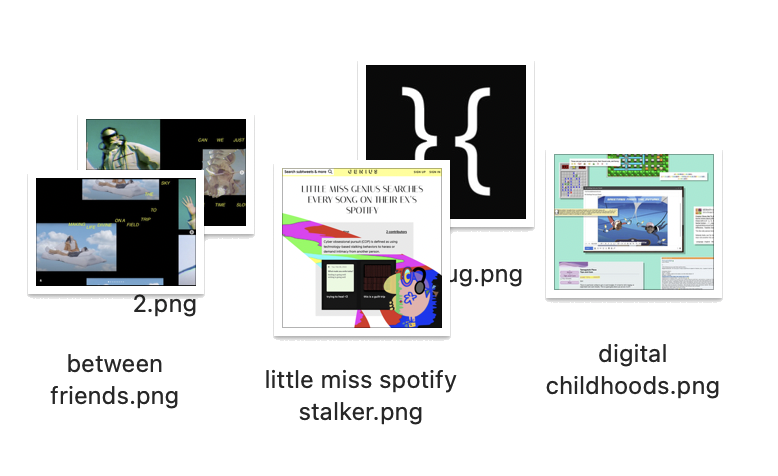
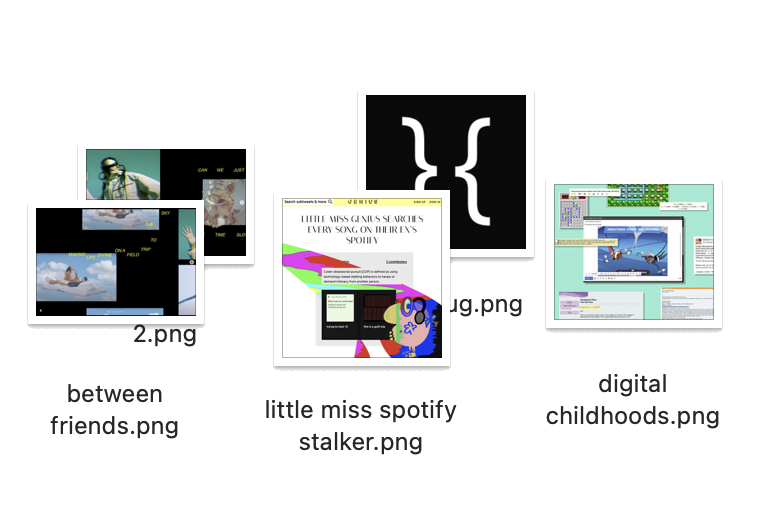
friends

diff --git a/src/pages/Home.js b/src/pages/Home.js
@@ -5,10 +5,12 @@ import DesktopIcon from "../components/desktop/DesktopIcon";
 import Folder from "../components/desktop/Folder";
 import Popup from "../components/desktop/Popup";
 import FileData from "../data/FileData";
+import { socials } from "../data/PortfolioData";
 import WindowData from "../data/WindowData";
 import { useCursorString, useUIActions } from "../context/UIContext";
 import { Screen, useDesktopScreen } from "../routes";
 import useIsMobile from "../hooks/useIsMobile";
+import { fonts } from "../styles/tokens.stylex";
 
 // Browsers that understand image-set() with type() all decode WebP. site.css
 // uses the same check, so the CSS background and this URL always match.
@@ -28,6 +30,48 @@ const styles = stylex.create({
   headerImage: {
     opacity: 0,
   },
+  pager: {
+    position: "fixed",
+    right: 10,
+    width: 128,
+    zIndex: 100,
+    display: "flex",
+    alignItems: "center",
+    justifyContent: "center",
+    gap: 14,
+    transform: "scale(0.5)",
+    fontFamily: fonts.serif,
+    fontStyle: "italic",
+    fontSize: 30,
+    color: "#111111",
+    userSelect: "none",
+    whiteSpace: "nowrap",
+  },
+  pagerLabel: {
+    padding: 0,
+    borderWidth: 0,
+    backgroundColor: "transparent",
+    color: "inherit",
+    font: "inherit",
+    cursor: "pointer",
+  },
+  pagerArrow: {
+    padding: 0,
+    borderWidth: 0,
+    backgroundColor: "transparent",
+    color: "inherit",
+    font: "inherit",
+    fontStyle: "normal",
+    lineHeight: 1,
+    cursor: {
+      default: "pointer",
+      ":disabled": "default",
+    },
+    opacity: {
+      default: 1,
+      ":disabled": 0.25,
+    },
+  },
 });
 
 const FOLDERS = [
@@ -44,6 +88,15 @@ const FOLDERS = [
   },
   { key: "About Me", display: "About Me", hoverText: "( Autofiction as therapy )" },
 ];
+
+const SOCIAL_FOLDERS = socials.map((social) => ({
+  key: social.url,
+  display: social.label,
+  hoverText: `( ${social.url.replace(/^https?:\/\//, "")} )`,
+  url: social.url,
+}));
+const FOLDER_PAGES = [SOCIAL_FOLDERS, FOLDERS];
+const folderTop = (index) => 150 + 90 * (index + 1);
 
 // Stops the page from scrolling or bouncing on vertical swipes (mobile).
 const usePreventVerticalSwipe = () => {
@@ -89,6 +142,8 @@ const Home = ({ isFoldersOff, setIsFoldersOff }) => {
 
   const [isGridLayout, setIsGridLayout] = useState(false);
   const [openStates, setOpenStates] = useState([true, false, true, true]);
+  const [folderPage, setFolderPage] = useState(0);
+  const pageFolders = FOLDER_PAGES[folderPage];
 
   const hoverHandlers = (text) => ({
     onMouseEnter: () => setCursorString(text),
@@ -236,20 +291,58 @@ const Home = ({ isFoldersOff, setIsFoldersOff }) => {
           {renderItems()}
 
           {!isFoldersOff &&
-            FOLDERS.map((folder, index) => (
+            pageFolders.map((folder, index) => (
               <Folder
                 key={folder.key}
-                isOpen={openStates[index]}
-                onOpen={(isOpen) => toggleFolder(index, isOpen)}
+                isOpen={folder.url ? false : openStates[index]}
+                onOpen={(isOpen) =>
+                  folder.url
+                    ? window.open(folder.url, "_blank", "noopener,noreferrer")
+                    : toggleFolder(index, isOpen)
+                }
                 hoverString={folder.hoverText}
                 onHoverChange={(isHovering) =>
                   setCursorString(isHovering ? folder.hoverText : "")
                 }
                 caption={folder.display}
-                y={150 + 90 * (index + 1)}
+                y={folderTop(index)}
                 scale={0.5}
               />
             ))}
+
+          {!isFoldersOff && (
+            <div
+              {...stylex.props(styles.pager)}
+              style={{ top: folderTop(pageFolders.length) + 45 }}
+            >
+              <button
+                type="button"
+                aria-label="Previous folders"
+                disabled={folderPage === 0}
+                onClick={() => setFolderPage((page) => page - 1)}
+                {...stylex.props(styles.pagerArrow)}
+              >
+                ‹
+              </button>
+              <button
+                type="button"
+                aria-label="Switch folder page"
+                onClick={() => setFolderPage((page) => (page + 1) % FOLDER_PAGES.length)}
+                {...stylex.props(styles.pagerLabel)}
+              >
+                ( {folderPage + 1}/{FOLDER_PAGES.length} )
+              </button>
+              <button
+                type="button"
+                aria-label="Next folders"
+                disabled={folderPage === FOLDER_PAGES.length - 1}
+                onClick={() => setFolderPage((page) => page + 1)}
+                {...stylex.props(styles.pagerArrow)}
+              >
+                ›
+              </button>
+            </div>
+          )}
 
           {cursorString ? (
             <div id="header-hover" className="bottom-left">

diff --git a/src/pages/Portfolio.js b/src/pages/Portfolio.js
@@ -7,6 +7,7 @@ import ProjectDetail from "../components/portfolio/ProjectDetail";
 import { projects, formatProjectDate, getProjectImageUrl } from "../data/PortfolioData";
 import { Screen, useDesktopScreen } from "../routes";
 import useIsMobile from "../hooks/useIsMobile";
+import useMediaQuery from "../hooks/useMediaQuery";
 import whenDecoded from "../utils/whenDecoded";
 import { colors, fonts, radii, fontSizes } from "../styles/tokens.stylex";
 
@@ -42,6 +43,10 @@ const URL_BAR_ROUTES = {
   convos: TABS[4],
   conversation: TABS[4],
   conversations: TABS[4],
+};
+
+const URL_BAR_REDIRECTS = {
+  friends: "https://moments.codes/friends",
 };
 
 const slugify = (title) =>
@@ -93,8 +98,7 @@ const loadImage = (url) =>
 
 const styles = stylex.create({
   hvrGrow: {
-    display: "inline-block",
-    verticalAlign: "middle",
+    display: "block",
     transform: {
       default: "translateZ(0)",
       ":hover": "scale(1.035)",
@@ -138,6 +142,8 @@ const styles = stylex.create({
   }),
   navPadding: {
     padding: 18,
+    flexShrink: 0,
+    whiteSpace: "nowrap",
   },
   backArrow: {
     cursor: "pointer",
@@ -255,7 +261,11 @@ const styles = stylex.create({
     right: 12,
   },
   projectImage: {
+    display: "block",
+    width: "100%",
     height: 200,
+    objectFit: "contain",
+    objectPosition: "left center",
     transform: "scale(0.9)",
   },
   madeWith: {
@@ -315,6 +325,7 @@ const styles = stylex.create({
 
 const Portfolio = () => {
   const isMobile = useIsMobile();
+  const isTwoColumn = useMediaQuery("(max-width: 1200px)");
   const { pathname } = useLocation();
   const history = useHistory();
   const [, setDesktopScreen] = useDesktopScreen();
@@ -323,6 +334,10 @@ const Portfolio = () => {
   const [favouriteOverrides, setFavouriteOverrides] = useState({});
   const isFavouritesOnly = (tab) => favouriteOverrides[tab.id] ?? tab.category === "all";
   const [backHover, setBackHover] = useState(0);
+  const hoverCircle = (id) => ({
+    onPointerEnter: (event) => event.pointerType === "mouse" && setBackHover(id),
+    onPointerLeave: () => setBackHover(0),
+  });
   const [useMobileDetail, setUseMobileDetail] = useState(true);
   const [readyImageLoadKey, setReadyImageLoadKey] = useState("");
   const [readyProjectImages, setReadyProjectImages] = useState(() => new Set());
@@ -391,6 +406,11 @@ const Portfolio = () => {
   const handleUrlBarSubmit = (event) => {
     if (event.key !== "Enter") return;
     const lastSegment = event.target.value.trim().split("/").pop().trim().toLowerCase();
+    const redirect = URL_BAR_REDIRECTS[lastSegment];
+    if (redirect) {
+      window.open(redirect, "_blank", "noopener,noreferrer");
+      return;
+    }
     const tab = URL_BAR_ROUTES[lastSegment];
     if (tab) {
       history.push(tab.path);
@@ -423,8 +443,7 @@ const Portfolio = () => {
               onClick={() => setDesktopScreen(Screen.HOME)}
               xmlns="http://www.w3.org/2000/svg"
               {...stylex.props(styles.backArrow)}
-              onMouseEnter={() => setBackHover(1)}
-              onMouseLeave={() => setBackHover(0)}
+              {...hoverCircle(1)}
             >
               <path
                 d="M21.883 12l-7.527 6.235.644.765 9-7.521-9-7.479-.645.764 7.528 6.236h-12.884v1h21.883z"
@@ -439,8 +458,7 @@ const Portfolio = () => {
               height="30"
               xmlns="http://www.w3.org/2000/svg"
               {...stylex.props(styles.forwardArrow)}
-              onMouseEnter={() => setBackHover(2)}
-              onMouseLeave={() => setBackHover(0)}
+              {...hoverCircle(2)}
             >
               <path
                 d="M21.883 12l-7.527 6.235.644.765 9-7.521-9-7.479-.645.764 7.529 6.236h-12.884v1h21.883z"
@@ -455,8 +473,7 @@ const Portfolio = () => {
                 viewBox="0 0 24 24"
                 xmlns="http://www.w3.org/2000/svg"
                 {...stylex.props(styles.refreshIcon)}
-                onMouseEnter={() => setBackHover(3)}
-                onMouseLeave={() => setBackHover(0)}
+                {...hoverCircle(3)}
               >
                 <path d="M7 9h-7v-7h1v5.2c1.853-4.237 6.083-7.2 11-7.2 6.623 0 12 5.377 12 12s-5.377 12-12 12c-6.286 0-11.45-4.844-11.959-11h1.004c.506 5.603 5.221 10 10.955 10 6.071 0 11-4.929 11-11s-4.929-11-11-11c-4.66 0-8.647 2.904-10.249 7h5.249v1z" />
               </svg>
@@ -500,7 +517,7 @@ const Portfolio = () => {
             id="portfolio-wrapper"
             className="bgrid-thirds s-bgrid-thirds cf"
             style={{
-              padding: isMobile ? "70px 10px 100px" : "50px 80px",
+              padding: isMobile ? "70px 10px 100px" : isTwoColumn ? "40px 30px" : "50px 80px",
               minHeight: isMobile ? "calc(100vh / 1.1 - 180px)" : "calc(100vh / 1.1 - 200px)",
             }}
           >

diff --git a/src/data/PortfolioData.js b/src/data/PortfolioData.js
@@ -1,10 +1,10 @@
 import React from "react";
 
 export const socials = [
-  { name: "❀ vsco.co", url: "https://vsco.co/mellyeliu" },
-  { name: "𖡼 reading.supply", url: "https://reading.supply/@mellyeliu" },
-  { name: "⚘ github.com", url: "https://github.com/mellyeliu" },
-  { name: "𖠋 linktr.ee", url: "https://linktr.ee/mellye.liu" },
+  { name: "❀ vsco.co", label: "Photos", url: "https://vsco.co/mellyeliu" },
+  { name: "𖡼 reading.supply", label: "Notes", url: "https://reading.supply/@mellyeliu" },
+  { name: "⚘ github.com", label: "Github", url: "https://github.com/mellyeliu" },
+  { name: "𖠋 linktr.ee", label: "Links", url: "https://linktr.ee/mellye.liu" },
 ];
 
 export const projects = [
@@ -84,7 +84,6 @@ export const projects = [
     languages: "React, Cursor :/",
     image: "666piece.png",
     date: "2025-05",
-    endDate: "present",
     type: ["games"],
     url: "",
   },
@@ -95,13 +94,12 @@ export const projects = [
     languages: "React?",
     image: "healinggame.png",
     date: "2024-08",
-    endDate: "present",
     type: ["games"],
     url: "https://healing-game.netlify.app/",
     collaborators: [
       {
         name: "Carolyn Wang",
-        url: "https://carolynwang.substack.com/",
+        url: "https://carowang.me/",
       },
     ],
   },
@@ -166,7 +164,7 @@ export const projects = [
     collaborators: [
       {
         name: "Carolyn Wang",
-        url: "https://carolynwang.substack.com",
+        url: "https://carowang.me/",
       },
     ],
   },
@@ -329,7 +327,8 @@ export const projects = [
     languages: "Procreate",
     image: "tattoo.png",
     type: ["design"],
-    date: "2021-01",
+    date: "2020",
+    endDate: "2021",
     url: "",
   },
   {

diff --git a/src/components/desktop/Folder.js b/src/components/desktop/Folder.js
@@ -16,6 +16,12 @@ const styles = stylex.create({
     userSelect: "none",
     zIndex: 100,
     display: "block",
+    width: 128,
+  },
+  caption: {
+    display: "flex",
+    justifyContent: "center",
+    whiteSpace: "nowrap",
   },
   folder: {
     transform: {
@@ -82,8 +88,8 @@ const Folder = ({
         {...stylex.props(styles.folder)}
       />
       {caption && (
-        <div {...stylex.props(styles.text, isOpen && styles.textOpen)}>
-          {caption}
+        <div {...stylex.props(styles.caption)}>
+          <div {...stylex.props(styles.text, isOpen && styles.textOpen)}>{caption}</div>
         </div>
       )}
     </div>

diff --git a/public/css/site.css b/public/css/site.css
@@ -586,6 +586,26 @@ button#one-tab {
 
 /* ---- Responsive ---- */
 
+@media only screen and (max-width: 1200px) {
+  #portfolio-wrapper .portfolio-item.columns {
+    width: 50%;
+  }
+}
+
+@media only screen and (min-width: 601px) and (max-width: 860px) {
+  #portfolio-wrapper .portfolio-item.columns {
+    width: 50% !important;
+    float: left;
+    padding: 0 12px !important;
+  }
+}
+
+@media only screen and (max-width: 600px) {
+  #portfolio-wrapper .portfolio-item img {
+    object-position: center;
+  }
+}
+
 @media only screen and (min-height: 890px) and (min-width: 1350px) {
   .top-left,
   .bottom-left {
